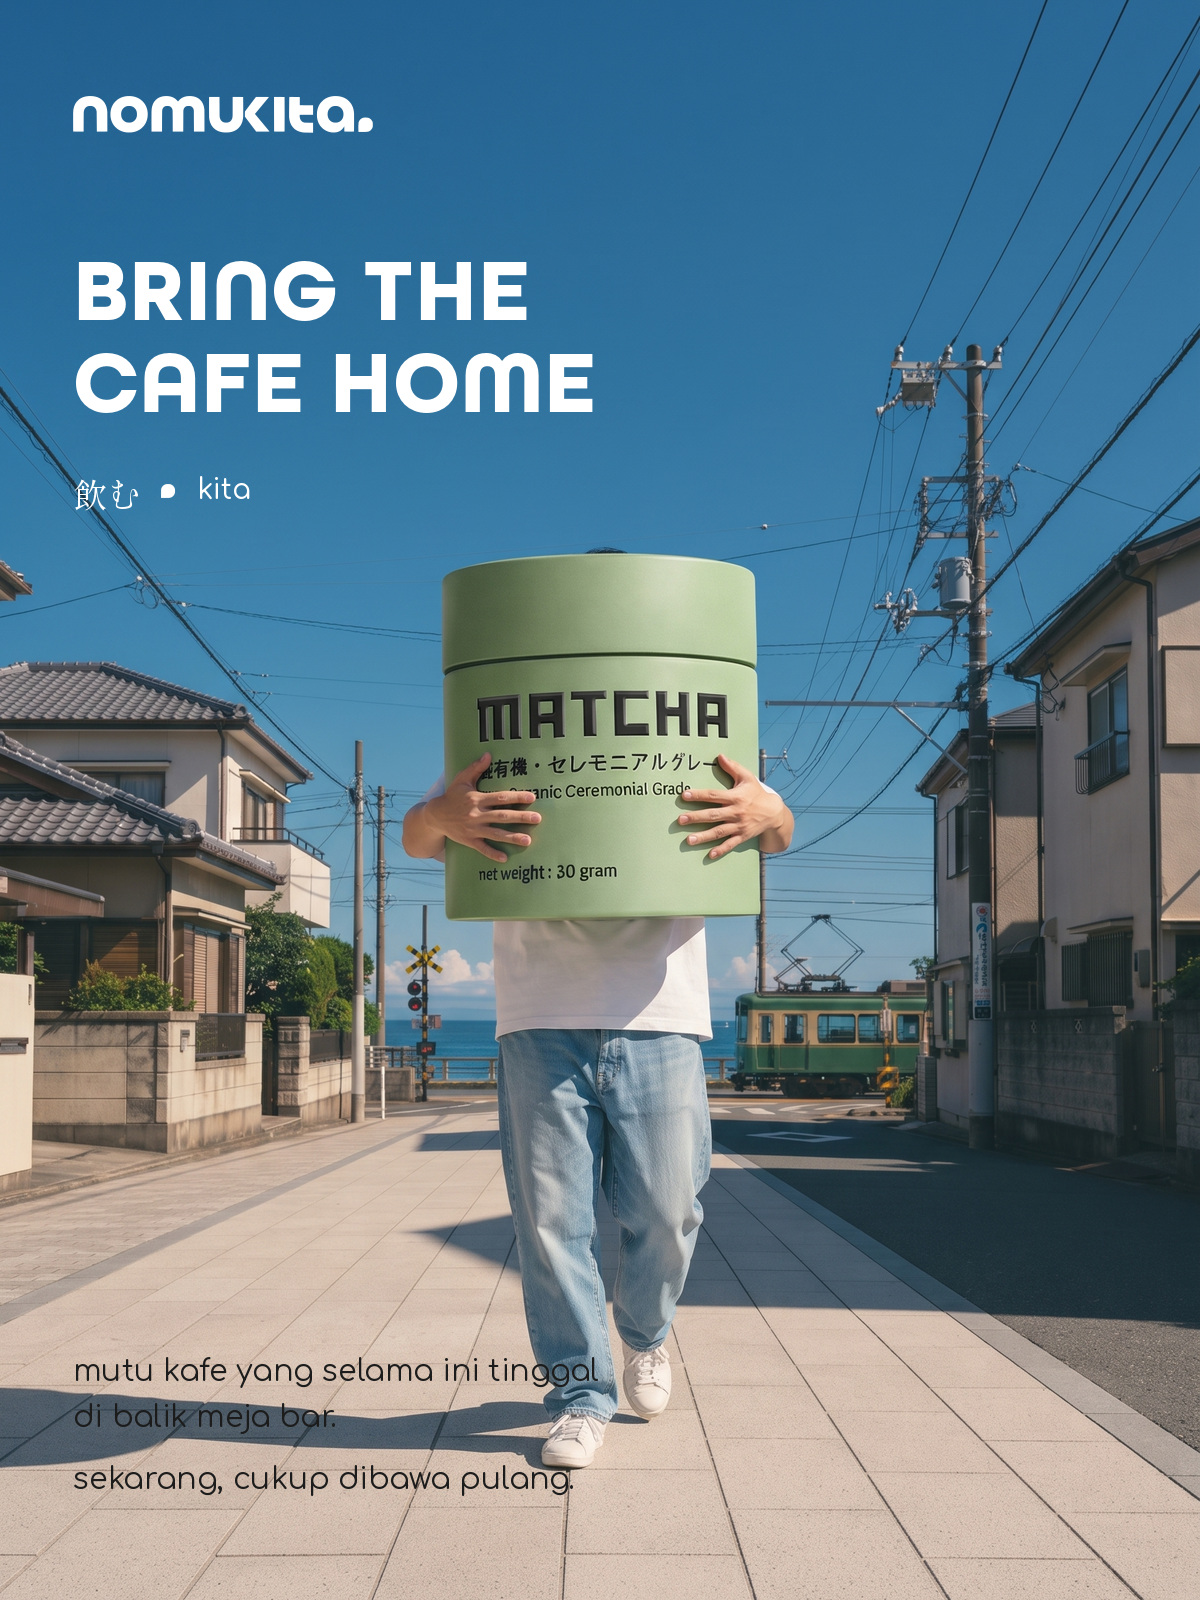
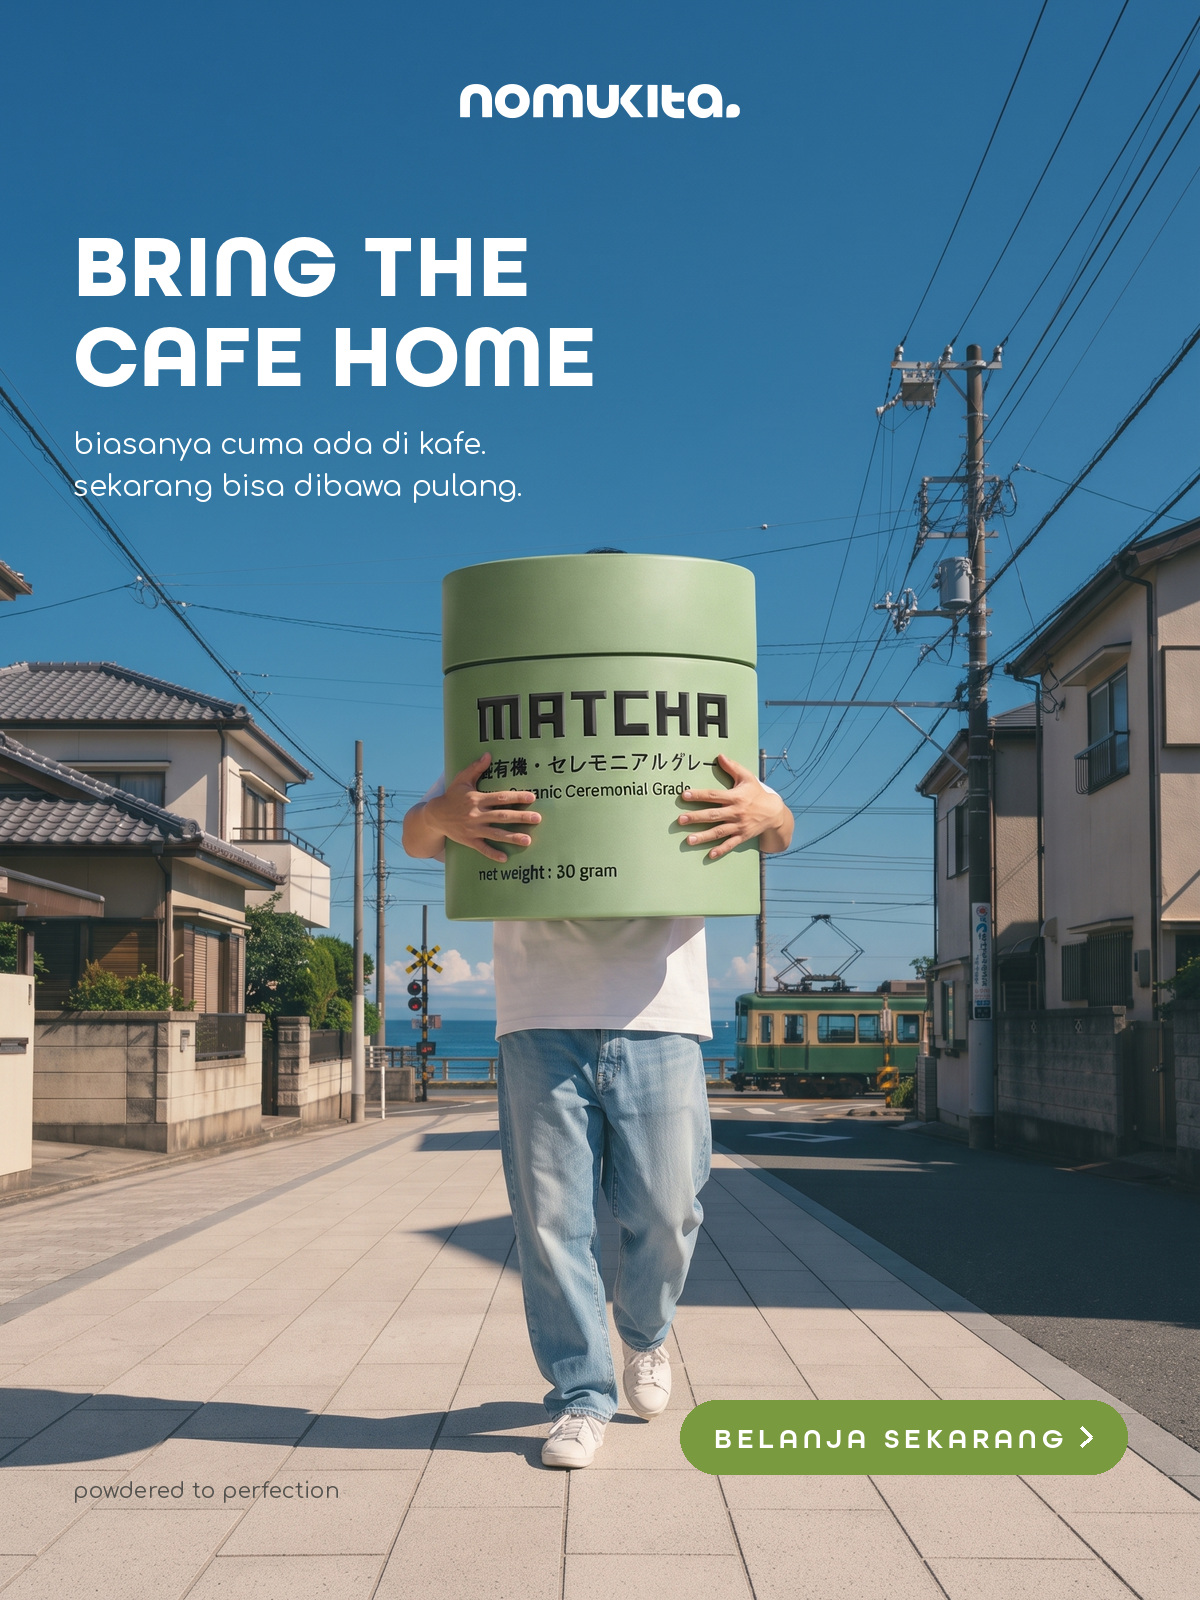
Relay out brand story slide one and add a call to action
Drops the mixed-script lockup: setting a kanji reading beside a Latin
syllable spells the brand name half in one language and half in another,
which is not how a name should be set.

Type now occupies four zones instead of one edge — mark top centre,
headline and body upper left, button lower right, tagline lower left.
Placement is measured off the photograph rather than eyeballed: the sky
under the headline holds 104-113 luminance across the whole block, so
white type stays even there, while the earlier lower-right position
straddled asphalt at 64-70 and washed the charcoal out. The paving under
the button reads 188-195, which the green holds against.

Copy loosened to how someone would actually say it, and the button gives
the slide somewhere to send people.

Claude-Session: https://claude.ai/code/session_01LqXMhsXVUSTDGQKyLmseEg

diff --git a/banners/brandstory.py b/banners/brandstory.py
@@ -20,23 +20,30 @@ def story():
     c.paste(scene, (0, 0))
     d = ImageDraw.Draw(c)
 
-    # The sky reads clean down to roughly a third of the frame on the left,
-    # which is where the type block sits.
-    N.logo(c, y=96, width=300, x=MARGIN, colour='#FFFFFF')
+    # Placement is measured off the photograph rather than guessed. The sky from
+    # y 300 to 530 on the left reads 104-113 luminance, uniform enough for white
+    # type; the paving at the lower right reads 188-195, so the green button
+    # holds there. The walker's legs own the centre, which stays clear.
+    N.logo(c, y=84, width=280, colour='#FFFFFF')
 
-    N.text(d, (MARGIN, 320), 'BRING THE', 88, WHITE, tracking=1)
-    N.text(d, (MARGIN, 412), 'CAFE HOME', 88, WHITE, tracking=1)
+    N.text(d, (MARGIN, 296), 'BRING THE', 88, WHITE, tracking=1)
+    N.text(d, (MARGIN, 386), 'CAFE HOME', 88, WHITE, tracking=1)
+    N.body(d, (MARGIN, 428), [
+        'biasanya cuma ada di kafe.',
+        'sekarang bisa dibawa pulang.',
+    ], 29, WHITE, leading=1.45)
 
-    d.text((MARGIN, 468), '飲む', font=N.jp(34), fill=WHITE, anchor='la')
-    N.drop(c, MARGIN + 88, 484, 14, (255, 255, 255))
-    d.text((MARGIN + 124, 474), 'kita', font=N.comf(28, 500), fill=WHITE, anchor='la')
+    right = W - MARGIN
+    label, fs, tr = 'BELANJA SEKARANG', 28, 5
+    lw = N.text_width(label, fs, demi=True, tracking=tr)
+    pw, ph = lw + 34 + 30 + 34, 74
+    px, py = right - pw, 1400
+    d.rounded_rectangle([px, py, px + pw, py + ph], radius=ph // 2,
+                        fill=MATCHA + (255,))
+    N.text(d, (px + 34, py + 48), label, fs, WHITE, demi=True, tracking=tr)
+    N.chevron(d, px + 34 + lw + 18, py + ph / 2, 19, WHITE, width=3)
 
-    # Body copy sits on the empty paving at the bottom left, so it goes charcoal.
-    N.body(d, (MARGIN, H - 246), [
-        'mutu kafe yang selama ini tinggal',
-        'di balik meja bar.',
-    ], 30, CHARCOAL)
-    N.body(d, (MARGIN, H - 138), ['sekarang, cukup dibawa pulang.'], 30, CHARCOAL)
+    N.body(d, (MARGIN, 1478), ['powdered to perfection'], 22, (84, 82, 78))
     return N.finish(c, OUT / '5-brand-story-1.png')
 
 
